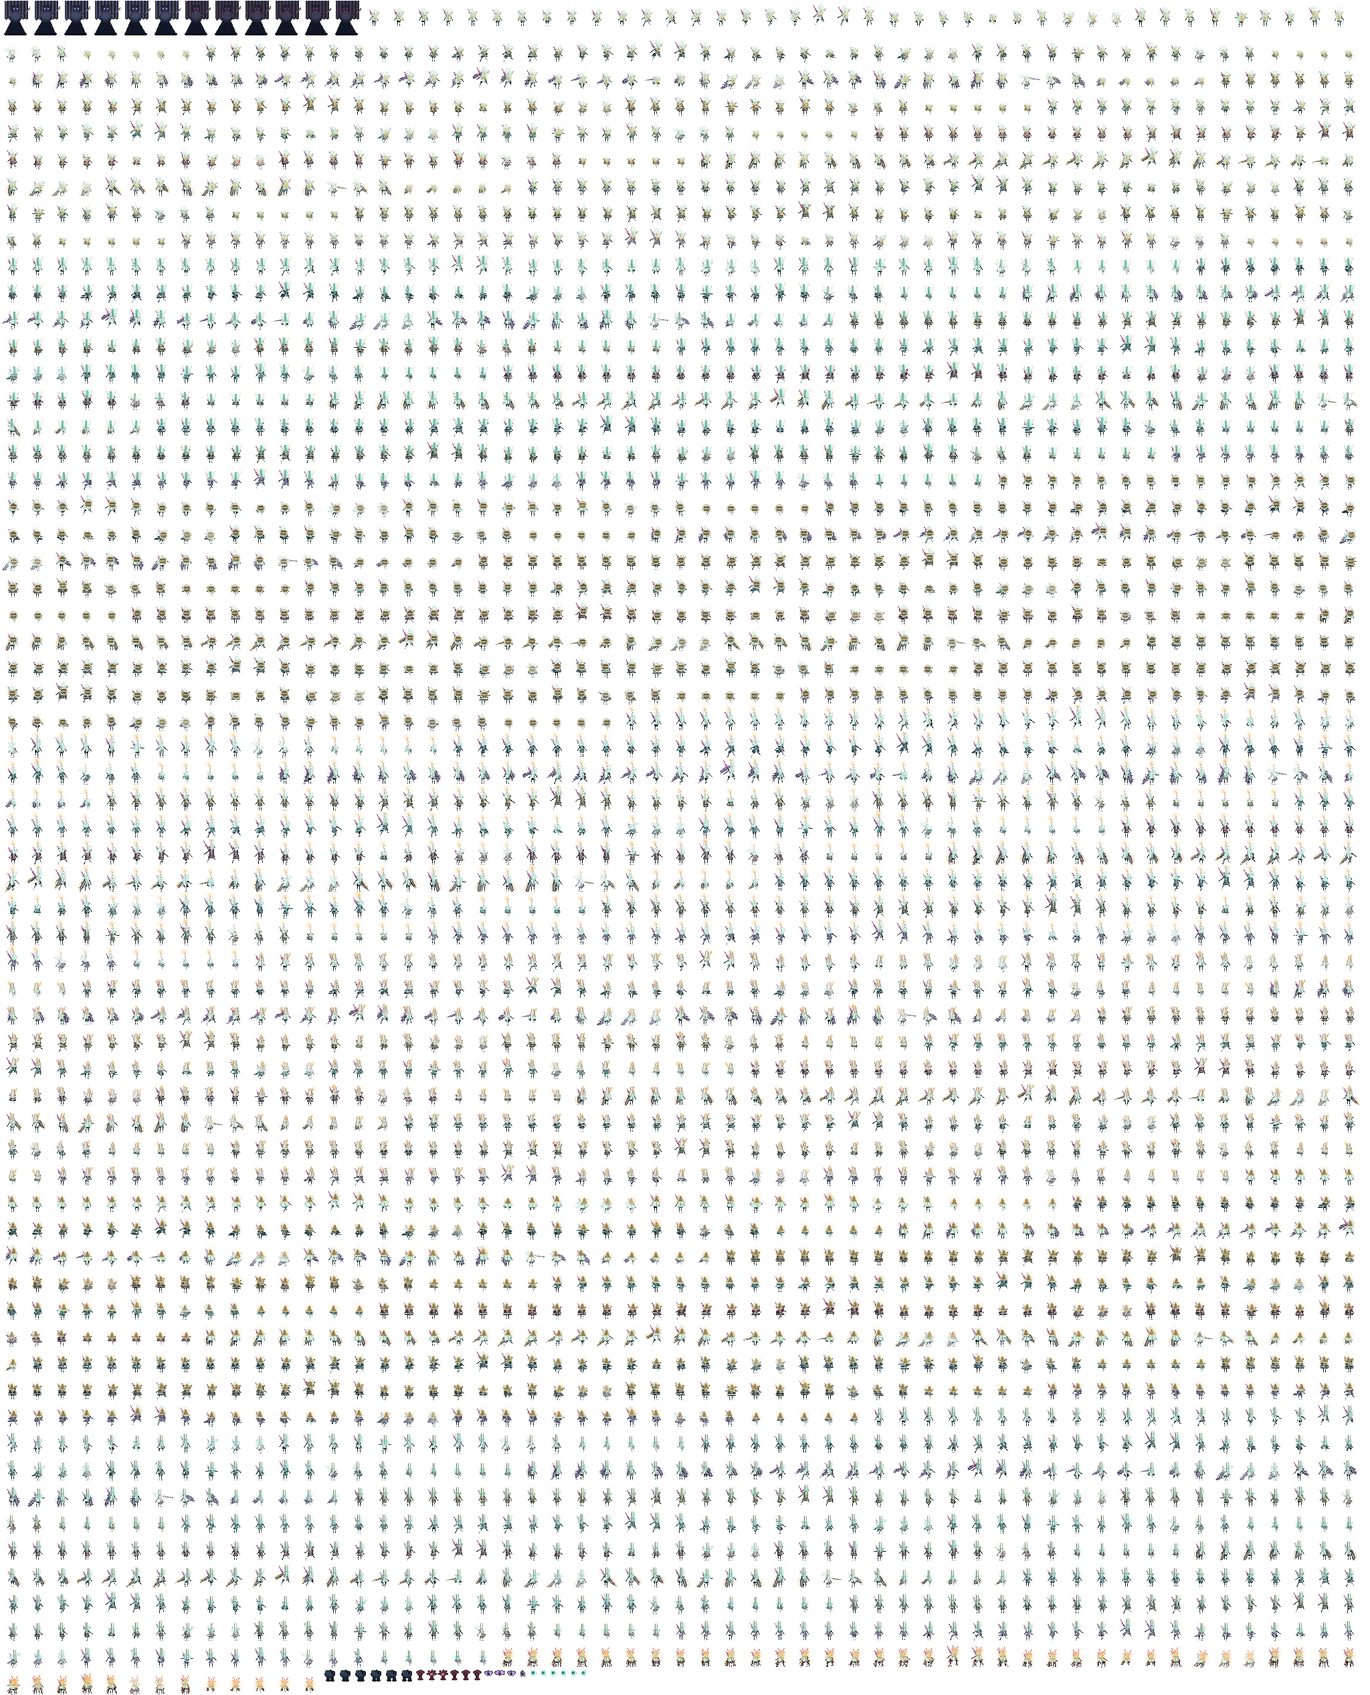
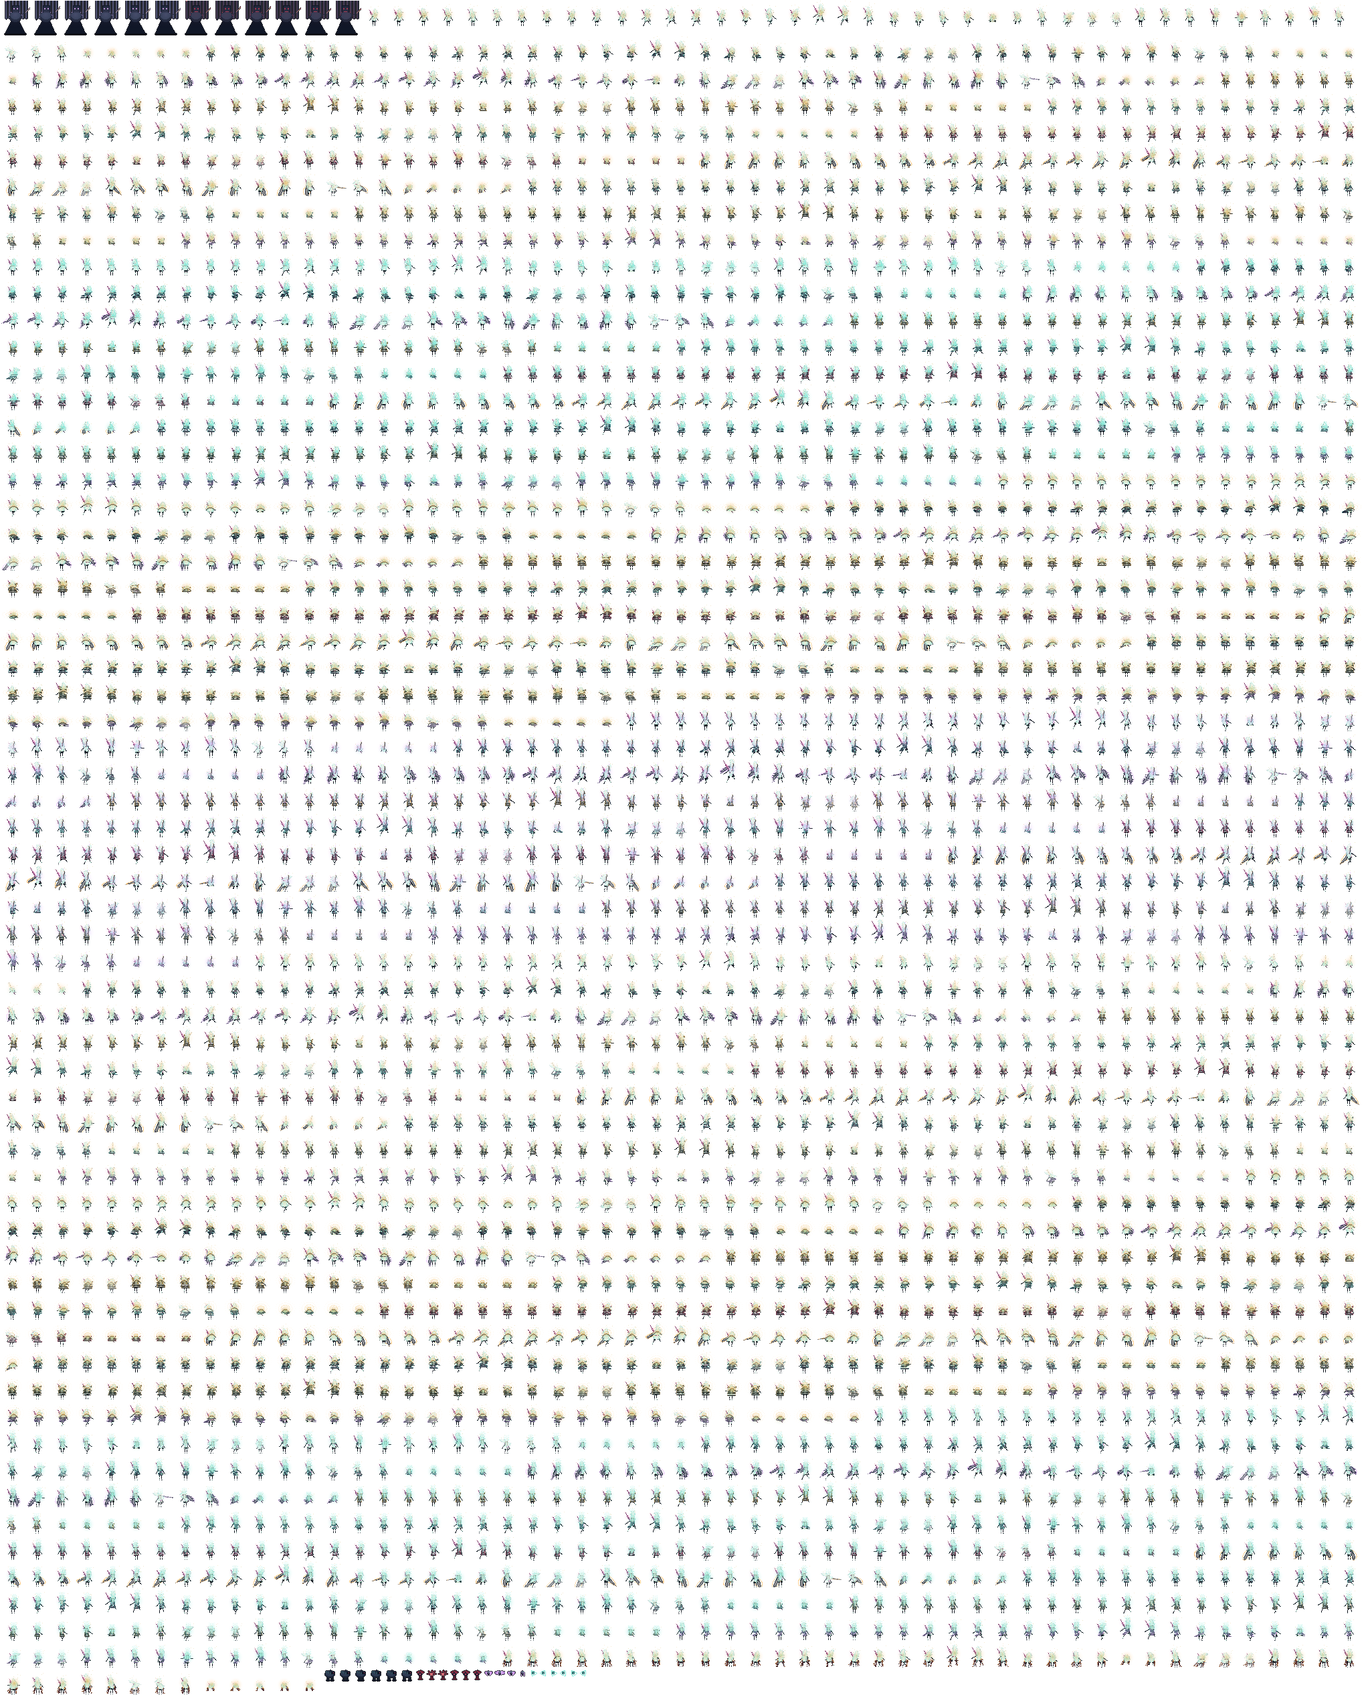
Kerne: eine Scherbe und ihr Klangbild, statt sieben Requisiten
Der erste Anlauf zeichnete jeden Kern als das, was er ist: eine Glocke war
eine Glocke, ein Metronom ein Metronom, eine Orgelpfeife ein Rohr. Das sah
aus wie Spielzeug, das sie mit sich herumtraegt, und hatte keinen Gedanken
dahinter - was auf zwoelf Pixeln ohnehin nie funktioniert.

Drei Regeln fuer alle sieben:

  1. Es ist immer eine Scherbe, nie ein Gegenstand. Ein Stueck
     Glockenrand statt einer Glocke. Der Arm eines Metronoms ohne Kasten -
     der Kasten ist das, was fehlt. Das Mundstueck einer Pfeife ohne
     Pfeife.

  2. Man sieht nicht die Form, sondern den Klang. Ueber jeder Scherbe
     steht ihre Signatur aus Licht: Ringe, die weit ueber sie
     hinausgehen, bei der Glocke. Eine stehende Luftsaeule mit drei
     wandernden Baeuchen bei der Orgelpfeife. Die Bahn, die der Arm schon
     gegangen ist, beim Metronom. Drei schwingende Saiten bei der Leier.
     Waagerechte Druckringe bei der Trommel. Die Signatur ist der
     eigentliche Gegenstand - die Scherbe ist nur, was davon uebrig ist.

  3. Hart und hell unten, weich und durchscheinend oben. Die Scherbe
     bekommt eine dunkle Fuge darunter, sonst geht sie in der hellen
     Flamme unter, in der sie steckt.

Dabei zwei Fehler behoben: der Strahl der Floete lief aus dem Rahmen und
klebte am oberen Rand fest, und die Scherben waren dunkel gezeichnet -
dunkel verschwindet in einer hellen Masse.

3442 Frames, 81 Tests gruen.

Claude-Session: https://claude.ai/code/session_01C5Hnci6a37xBV4pyPzPzMs

diff --git a/Tools/gen_characters.py b/Tools/gen_characters.py
@@ -332,187 +332,210 @@ def _draw_beine(c: Canvas, *, cx: int, base: float, height: float, phase: float,
 
 def _draw_kern(c: Canvas, *, kern: str, cx: int, base: float, height: float,
                phase: float, lean: float, glow: float, mid) -> None:
+    """
+    Der Kern in ihr - nach einer Regel, die fuer alle gilt.
+
+    Der erste Anlauf zeichnete jeden Kern als das, was er ist: eine Glocke
+    war eine Glocke, ein Metronom ein Metronom. Das sah aus wie Spielzeug,
+    das sie mit sich herumtraegt, und hatte keinen Gedanken dahinter.
+
+    Die Regel lautet jetzt:
+
+    1. **Es ist immer eine Scherbe, nie ein Gegenstand.** Nichts davon ist
+       heil. Ein Stueck Glockenrand, der Arm eines Metronoms ohne Kasten,
+       das Mundstueck einer Pfeife ohne Pfeife. Halb in ihr, an der
+       Bruchkante rau.
+    2. **Man sieht nicht die Form, sondern den Klang.** Ueber jeder Scherbe
+       steht ihre Signatur aus Licht: Ringe bei der Glocke, eine stehende
+       Luftsaeule bei der Orgelpfeife, die Bahn des Arms beim Metronom. Das
+       ist der eigentliche Gegenstand - die Scherbe ist nur, was davon
+       uebrig ist.
+    3. **Hart und dunkel unten, weich und hell oben.** Die Scherbe hat
+       Kanten, die Signatur hat keine.
+
+    Damit sieht man einem Kern an, wie er klingt, bevor man ihn benutzt -
+    und alle sieben gehoeren sichtbar zusammen.
+    """
     S = HERO_SCALE
     t = 0.52
     fy = base - t * height
     fx = cx + lean * t + math.sin(t * 2.6 + phase) * 1.2
-    tilt = 0.16 + lean * 0.02
 
-    # Der Stiel nach unten ist bei allen gleich: er verschwindet in ihr.
-    for i in range(int(8 * S)):
-        col = P.BONE_SH if i < 3 * S else mix(P.BONE_LO, mid, min(1.0, (i - 3 * S) / (5 * S)))
-        c.set(int(fx + tilt * i), int(fy + i), col)
+    # Die Scherbe muss sich gegen die Flamme durchsetzen, in der sie steckt.
+    # Deshalb hell mit dunkler Fuge darunter - nicht dunkel: dunkel geht in
+    # der hellen Masse unter.
+    scherbe = P.BONE_SH
+    scherbe_hi = mix(P.BONE, (255, 255, 255, 255), 0.35)
+    schatten = mix(P.CLOAK, P.INK, 0.5)
+    bruch = mix(P.BONE_LO, mid, 0.55)
+    licht = {"stimmgabel": P.AMBER, "leier": P.TRIM, "trommel": P.GOLD,
+             "floete": P.BLOOM, "metronom": P.WARM, "glocke": P.GOLD,
+             "orgelpfeife": P.TRIM}.get(kern, P.AMBER)
+    p = 0.5 + 0.5 * math.sin(phase * 1.8)
 
-    if kern == "trommel":
-        # Ein schwerer Ring, der quer in ihr liegt. Er liegt tief, damit die
-        # Kerbe darueber frei bleibt - sonst traegt sie ihn wie einen Kopf.
-        c.ellipse(fx, fy - 1, 4.6 * S, 2.9 * S, mix(P.BONE_LO, P.CLOAK, 0.35))
-        c.ring(fx, fy - 1, 4.1 * S, 1.3 * S, P.BONE_SH)
-        c.ring(fx, fy - 1, 4.1 * S, 0.7 * S, P.BONE)
-        c.rect(int(fx - 4 * S), int(fy) - 1, int(9 * S), 1, mix(P.BONE, P.GOLD, 0.45))
-        for side in (-1, 1):
-            c.set(int(fx + side * 4 * S), int(fy - 2), P.GOLD)
-        if glow > 0:
-            c.glow(fx, fy - 1, 7 * S, (P.GOLD[0], P.GOLD[1], P.GOLD[2], int(80 * glow)))
-        return
+    def strahl(x: float, y: float, a: int) -> None:
+        # Alles, was ueber den Rahmen hinausgeht, wird abgeschnitten - sonst
+        # klebt ein Strahl am oberen Bildrand fest und wandert beim
+        # Zeichnen in den Nachbarrahmen.
+        xi, yi = int(x), int(y)
+        if 0 <= xi < c.w and 1 <= yi < c.h - 1:
+            c.blend(xi, yi, (licht[0], licht[1], licht[2], max(0, min(255, a))))
 
-    if kern == "floete":
-        # Ein einzelner schmaler Stab, weit oben heraus. Er spitzt sie zu.
-        laenge = int(13 * S)
-        for i in range(laenge):
-            x = int(fx + tilt * -i * 0.5)
-            c.set(x, int(fy - 1 - i), P.BONE if i % 4 else P.BONE_SH)
-            if i > 2 and i % 4 == 2:
-                c.set(x + 1, int(fy - 1 - i), shade(P.BONE_LO, -0.2))
-        tipx, tipy = int(fx - tilt * laenge * 0.5), int(fy - 1 - laenge)
-        c.set(tipx, tipy, P.AMBER)
-        c.set(tipx, tipy + 1, mix(P.AMBER, P.BONE, 0.5))
-        if glow > 0:
-            c.glow(tipx, tipy, 6 * S, (P.AMBER[0], P.AMBER[1], P.AMBER[2], int(105 * glow)))
-        return
+    def kante(x: float, y: float) -> None:
+        """Eine dunkle Fuge unter der Scherbe, damit sie sich abhebt."""
+        xi, yi = int(x), int(y) + 1
+        if 0 <= xi < c.w and 0 <= yi < c.h:
+            c.blend(xi, yi, (schatten[0], schatten[1], schatten[2], 190))
 
-    if kern == "metronom":
-        # Ein Keil mit einem Arm, der tickt. Der Arm steht nie still - er
-        # ist der einzige Teil von ihr, der einen festen Takt hat.
-        for i in range(int(10 * S)):
-            v = i / (10 * S)
-            w = int((3.4 - 2.2 * v) * S)
-            for dx in range(-w, w + 1):
-                c.set(int(fx + dx), int(fy - i), P.BONE if abs(dx) < w else P.BONE_SH)
-        # Die Skala.
-        for k in range(4):
-            c.set(int(fx + 1 * S), int(fy - (2 + k * 2) * S), P.BONE_LO)
-        # Der Arm mit dem Gewicht.
-        a = -math.pi / 2 + math.sin(phase * 2.2) * 0.55
-        for i in range(int(11 * S)):
-            c.set(int(fx + math.cos(a) * i), int(fy - 1 + math.sin(a) * i), P.BONE_SH)
-        gx = int(fx + math.cos(a) * 8 * S)
-        gy = int(fy - 1 + math.sin(a) * 8 * S)
-        c.rect(gx - 1, gy, 3, 2, mix(P.BONE, P.AMBER, 0.45))
-        if glow > 0:
-            c.glow(gx, gy, 5 * S, (P.AMBER[0], P.AMBER[1], P.AMBER[2], int(90 * glow)))
-        return
+    # --- Die Scherbe ------------------------------------------------------
+    if kern == "stimmgabel":
+        # Zwei Zinken, einer abgebrochen, quer zur Koerperachse.
+        a = -1.16 + lean * 0.03
+        ax, ay = math.cos(a), math.sin(a)
+        nx, ny = -ay, ax
+        for i in range(int(4 * S)):
+            c.set(int(fx - ax * i), int(fy - ay * i), scherbe if i else scherbe_hi)
+        for k in range(-2, 3):
+            c.set(int(fx + nx * k), int(fy + ny * k),
+                  scherbe_hi if abs(k) < 2 else scherbe)
+        for seite, laenge in ((1, int(height * 0.34)), (-1, int(height * 0.17))):
+            for i in range(laenge):
+                px = fx + nx * seite * 1.7 * S + ax * i
+                py = fy + ny * seite * 1.7 * S + ay * i
+                c.set(int(px), int(py), scherbe_hi if i % 4 else scherbe)
+            if seite < 0:
+                c.set(int(fx + nx * seite * 1.7 * S + ax * laenge),
+                      int(fy + ny * seite * 1.7 * S + ay * laenge), bruch)
+        # Signatur: der Ton steht als schmales Band zwischen den Zinken.
+        for i in range(int(height * 0.30)):
+            v = i / (height * 0.30)
+            strahl(fx + ax * i + nx * 0.6, fy + ay * i + ny * 0.6,
+                   int(150 * (1 - v) * (0.5 + 0.5 * p)))
 
-    if kern == "glocke":
-        # Eine Glocke, kopfueber in ihr. Der Kloeppel schwingt nach - er
-        # laeuft dem Takt hinterher, weil die Glocke laenger nachhallt.
-        oben = fy - int(7 * S)
-        for i in range(int(7 * S)):
-            v = i / (7 * S)
-            w = (1.2 + 2.9 * v ** 1.4) * S
-            for dx in range(-int(w), int(w) + 1):
-                rand = abs(dx) >= int(w)
-                c.set(int(fx + dx), int(oben + i),
-                      mix(P.BONE_SH, P.GOLD, 0.35) if rand else P.BONE_LO)
-        c.rect(int(fx - 3.9 * S), int(fy - 1), int(7.8 * S), 1,
-               mix(P.BONE, P.GOLD, 0.5))
-        kx = int(fx + math.sin(phase * 1.4) * 2.6 * S)
-        c.set(kx, int(fy - 2), mix(P.BONE, P.AMBER, 0.6))
-        c.set(kx, int(fy - 3), P.BONE_SH)
-        if glow > 0:
-            c.glow(fx, fy - 4 * S, 9 * S, (P.GOLD[0], P.GOLD[1], P.GOLD[2], int(85 * glow)))
-        return
-
-    if kern == "orgelpfeife":
-        # Ein gerades Rohr mit Mundstueck. Sie kennt genau einen Ton, und
-        # der geht durch alles hindurch.
-        hoehe = int(11 * S)
-        for i in range(hoehe):
-            for dx in (-1, 0, 1):
-                col = P.BONE if dx == 0 else (P.BONE_SH if dx > 0 else P.BONE_LO)
-                c.set(int(fx + dx * S), int(fy - i), col)
-        # Das Labium: die Kerbe, an der der Ton entsteht.
-        c.rect(int(fx - 1.4 * S), int(fy - int(4 * S)), int(3 * S), 1, P.BONE_LO)
-        c.set(int(fx), int(fy - int(4 * S) - 1),
-              mix(P.TRIM, P.BONE, 0.4 + 0.4 * (0.5 + 0.5 * math.sin(phase * 2))))
-        c.rect(int(fx - 2 * S), int(fy - hoehe), int(4 * S), 1, mix(P.BONE, P.TRIM, 0.35))
-        if glow > 0:
-            c.glow(fx, fy - 4 * S, 7 * S, (P.TRIM[0], P.TRIM[1], P.TRIM[2], int(90 * glow)))
-        return
-
-    if kern == "leier":
-        # Ein Rahmen mit Saiten. Drei Toene zugleich - also drei Faeden, die
-        # zwischen zwei Armen stehen und im Takt mitschwingen.
-        arm = int(10 * S)
-        for side in (-1, 1):
-            for i in range(arm):
-                bx = int(fx + side * (2.4 * S + i * 0.30))
-                c.set(bx, int(fy - 1 - i), P.BONE)
-                if i > arm * 0.6:
-                    c.set(bx, int(fy - 1 - i),
-                          mix(P.BONE, P.AMBER, (i - arm * 0.6) / (arm * 0.4) * 0.7))
-        c.rect(int(fx - 3 * S), int(fy - 1), int(7 * S), 1, P.BONE_SH)
+    elif kern == "leier":
+        # Ein Arm mit drei Saiten, am unteren Ende abgerissen.
+        bogen = int(9 * S)
+        for i in range(bogen):
+            v = i / bogen
+            x = fx - 2.6 * S + math.sin(v * 1.3) * 2.4 * S
+            c.set(int(x), int(fy - 1 - i), scherbe_hi if i % 3 else scherbe)
+        c.set(int(fx - 2.6 * S), int(fy), bruch)
+        c.rect(int(fx - 3 * S), int(fy - 1), int(5 * S), 1, scherbe)
+        # Signatur: drei Saiten, die im Takt schwingen.
         for k in range(3):
-            sxx = int(fx - 1 * S) + int(k * S)
-            for i in range(int(9 * S)):
-                fade = 0.25 + 0.55 * (0.5 + 0.5 * math.sin(phase * 2 + k * 1.9 + i * 0.4))
-                c.set(sxx, int(fy - 2 - i), mix(P.BONE_LO, P.TRIM, fade))
-        if glow > 0:
-            c.glow(fx, fy - 7 * S, 7 * S, (P.TRIM[0], P.TRIM[1], P.TRIM[2], int(85 * glow)))
-        return
+            sx = fx - 1.0 * S + k * 1.5 * S
+            for i in range(int(8 * S)):
+                v = i / (8 * S)
+                aus = math.sin(phase * 3 + k * 2.1 + v * 6) * (1 - abs(v - 0.5) * 2) * 1.6
+                strahl(sx + aus, fy - 2 - i, int(210 * (1 - v * 0.5)))
 
-    if kern == "bruch":
-        # Der zersprungene Kern. Beide Zinken sind ab; was bleibt, ist der
-        # Steg und ein Riss, aus dem es herausfaehrt.
-        c.rect(int(fx - 2 * S), int(fy - 1), int(5 * S), 2, P.BONE_SH)
-        for side in (-1, 1):
-            h = int((2 + (1 if side > 0 else 3)) * S)
-            for i in range(h):
-                c.set(int(fx + side * 1.6 * S), int(fy - 2 - i),
-                      P.BONE if i < h - 1 else mix(P.BONE_LO, P.ROT, 0.5))
-        for k in range(5):
-            a = -math.pi / 2 + (k - 2) * 0.42 + math.sin(phase * 2) * 0.12
-            laenge = (4 + (k % 2) * 3) * S
-            for i in range(int(laenge)):
-                c.set(int(fx + math.cos(a) * (2 * S + i)),
-                      int(fy - 3 * S + math.sin(a) * (2 * S + i)),
-                      mix(P.AMBER, P.ROT, i / max(1.0, laenge)))
-        if glow > 0:
-            c.glow(fx, fy - 2 * S, 10 * S,
-                   (P.AMBER[0], P.AMBER[1], P.AMBER[2], int(150 * glow)))
-        return
+    elif kern == "trommel":
+        # Ein Stueck Reifen, quer durch sie hindurch. Kein ganzer Ring.
+        for i in range(-int(5 * S), int(5 * S) + 1):
+            dy = int(abs(i) ** 1.7 / (5 * S) ** 1.7 * 3 * S)
+            c.set(int(fx + i), int(fy - 2 * S + dy), scherbe_hi)
+            c.set(int(fx + i), int(fy - 2 * S + dy + 1), scherbe)
+            kante(fx + i, fy - 2 * S + dy + 1)
+        c.set(int(fx - 5 * S), int(fy - 2 * S + int(3 * S)), bruch)
+        # Signatur: Druckringe, die sich waagerecht ausbreiten.
+        for k in range(3):
+            r = (2 + k * 2.6 + p * 2.4) * S
+            for i in range(20):
+                a = i / 20 * math.tau
+                strahl(fx + math.cos(a) * r * 1.5, fy - 2 * S + math.sin(a) * r * 0.55,
+                       int(120 * (1 - k / 3) * (1 - p * 0.4)))
 
-    # Die Stimmgabel - und zwar schraeg durch sie hindurch.
-    #
-    # Zwei Anlaeufe waren daneben. Senkrecht und symmetrisch las sie sich
-    # als Fuehlerpaar, also als Tier. Ein einzelner langer Zinken war zwar
-    # kein Tier mehr, aber auch keine Stimmgabel - nur ein Stock.
-    #
-    # Schraeg loest beides: die Gabel behaelt ihre zwei Zinken und den
-    # Steg, steht aber quer zur Koerperachse. Damit kann das Auge sie gar
-    # nicht als Koerperteil lesen - so waechst nichts. Sie steckt.
-    a = -1.16 + lean * 0.03
-    ax, ay = math.cos(a), math.sin(a)
-    nx, ny = -ay, ax                        # quer zur Gabelachse
-
-    # Der Stiel faehrt hinten unten wieder heraus.
-    for i in range(int(5 * S)):
-        c.set(int(fx - ax * i), int(fy - ay * i),
-              P.BONE_SH if i < 2 else mix(P.BONE_LO, mid, i / (5 * S)))
-
-    # Der Steg liegt in ihr - quer zur Achse, kurz und gedeckt.
-    for k in range(-2, 3):
-        c.set(int(fx + nx * k), int(fy + ny * k), P.BONE if abs(k) < 2 else P.BONE_SH)
-
-    # Die beiden Zinken, ungleich lang: der hintere ist angebrochen.
-    for seite, laenge in ((1, int(height * 0.38)), (-1, int(height * 0.21))):
+    elif kern == "floete":
+        # Ein Rohrstueck mit zwei Loechern, schraeg abgebrochen.
+        laenge = int(9 * S)
         for i in range(laenge):
-            v = i / max(1, laenge)
-            # Sie laufen leicht auseinander, wie bei einer echten Gabel.
-            px = fx + nx * seite * (1.6 * S + v * 1.4) + ax * i
-            py = fy + ny * seite * (1.6 * S + v * 1.4) + ay * i
-            c.set(int(px), int(py), P.BONE if i % 4 else P.BONE_SH)
-            if i > laenge * 0.5:
-                c.set(int(px - nx * seite), int(py - ny * seite), P.BONE_SH)
-        ex = fx + nx * seite * (1.6 * S + 1.4) + ax * laenge
-        ey = fy + ny * seite * (1.6 * S + 1.4) + ay * laenge
-        # Der kurze endet rau: dort ist er abgebrochen.
-        c.set(int(ex), int(ey),
-              mix(P.BONE, P.AMBER, 0.4) if seite > 0 else mix(P.BONE_LO, mid, 0.5))
+            x = int(fx + i * 0.16)
+            c.set(x, int(fy - 1 - i), scherbe_hi if i % 5 else scherbe)
+            c.set(x + 1, int(fy - 1 - i), scherbe)
+            kante(x + 1, fy - 1 - i)
+            if i in (int(3 * S), int(6 * S)):
+                c.set(x, int(fy - 1 - i), bruch)
+        c.set(int(fx), int(fy), bruch)
+        # Signatur: ein einziger gerader Strahl nach oben. Kurz genug, dass
+        # er im Rahmen bleibt - sonst haengt er oben fest.
+        strecke = min(height * 0.16, max(0.0, fy - laenge - 5))
+        for i in range(max(0, int(strecke))):
+            v = i / max(1.0, strecke)
+            if (i + int(phase * 6)) % 3:
+                strahl(fx + laenge * 0.16, fy - 2 - laenge - i, int(200 * (1 - v)))
+
+    elif kern == "metronom":
+        # Kein Kasten, kein Gehaeuse: nur der Arm mit dem Gewicht, der in
+        # ihr steckt. Der Kasten ist das, was fehlt.
+        a = -math.pi / 2 + math.sin(phase * 2.2) * 0.60
+        laenge = int(10 * S)
+        for i in range(laenge):
+            c.set(int(fx + math.cos(a) * i), int(fy - 1 + math.sin(a) * i),
+                  scherbe_hi if i % 4 else scherbe)
+        gx = int(fx + math.cos(a) * laenge * 0.78)
+        gy = int(fy - 1 + math.sin(a) * laenge * 0.78)
+        c.rect(gx - 1, gy, 3, 2, scherbe_hi)
+        c.set(int(fx), int(fy), bruch)
+        # Signatur: die Bahn, die er schon gegangen ist - ein Bogen aus
+        # Nachbildern. Man sieht den Takt, nicht das Geraet.
+        for k in range(9):
+            aa = -math.pi / 2 + (-0.60 + k * 0.15)
+            naehe = 1 - abs(aa - a) / 0.7
+            for i in range(int(4 * S), laenge):
+                strahl(fx + math.cos(aa) * i, fy - 1 + math.sin(aa) * i,
+                       int(90 * max(0.0, naehe) ** 2))
+
+    elif kern == "glocke":
+        # Nur der Rand einer Glocke - ein Bogen, mehr nicht. Der Kloeppel
+        # haengt frei darunter und schwingt nach.
+        for i in range(-int(5 * S), int(5 * S) + 1):
+            v = abs(i) / (5 * S)
+            y = fy - 4 * S + v ** 1.8 * 4 * S
+            c.set(int(fx + i), int(y), scherbe_hi)
+            c.set(int(fx + i), int(y + 1), scherbe)
+            kante(fx + i, y + 1)
+        for seite in (-1, 1):
+            c.set(int(fx + seite * 5 * S), int(fy), bruch)
+        kx = fx + math.sin(phase * 1.2) * 2.4 * S
+        c.set(int(kx), int(fy - 2 * S), scherbe)
+        c.set(int(kx), int(fy - 2 * S + 1), scherbe_hi)
+        # Signatur: Ringe, die weit ueber sie hinausgehen. Das ist die
+        # Aura - eine Glocke ist der Hall, nicht das Metall.
+        for k in range(4):
+            r = ((k * 3.2 + p * 3.2) % 12.8 + 2) * S
+            a0 = int(110 * (1 - r / (13 * S)))
+            for i in range(26):
+                a = i / 26 * math.tau
+                strahl(fx + math.cos(a) * r, fy - 4 * S + math.sin(a) * r * 0.82, a0)
+
+    elif kern == "orgelpfeife":
+        # Das Mundstueck einer Pfeife, kurz abgebrochen. Die Pfeife selbst
+        # ist nicht mehr da - sie steht als Luftsaeule darueber.
+        fuss = int(5 * S)
+        for i in range(fuss):
+            for dx in (-1, 0, 1):
+                c.set(int(fx + dx * S), int(fy - i),
+                      scherbe_hi if dx == 0 else scherbe)
+        for dx in range(-int(1.6 * S), int(1.8 * S)):
+            kante(fx + dx, fy - fuss)
+        c.rect(int(fx - 1.6 * S), int(fy - fuss), int(3.4 * S), 1, scherbe_hi)
+        c.rect(int(fx - 1.2 * S), int(fy - fuss + 1), int(2.6 * S), 1, bruch)
+        c.set(int(fx), int(fy + 1), bruch)
+        # Signatur: eine stehende Luftsaeule. Drei Baeuche, die wandern -
+        # das ist die Orgel, nicht das Rohr.
+        hoehe = height * 0.42
+        for i in range(int(hoehe)):
+            v = i / hoehe
+            bauch = abs(math.sin(v * math.pi * 3 - phase * 1.6))
+            breite = (0.6 + bauch * 2.6) * S
+            for dx in range(-int(breite), int(breite) + 1):
+                rand = abs(dx) >= int(breite) - 0
+                strahl(fx + dx, fy - fuss - 1 - i,
+                       int((150 if rand else 55) * (1 - v * 0.75)))
 
     if glow > 0:
-        c.glow(fx, fy, 7 * S, (P.AMBER[0], P.AMBER[1], P.AMBER[2], int(120 * glow)))
-    c.set(int(fx), int(fy), P.AMBER)
+        c.glow(fx, fy - 2 * S, 9 * S,
+               (licht[0], licht[1], licht[2], int((70 + 60 * p) * glow)))
 
 
 def _draw_garment(c: Canvas, *, garment: str, kind: str, cx: int, base: float,
